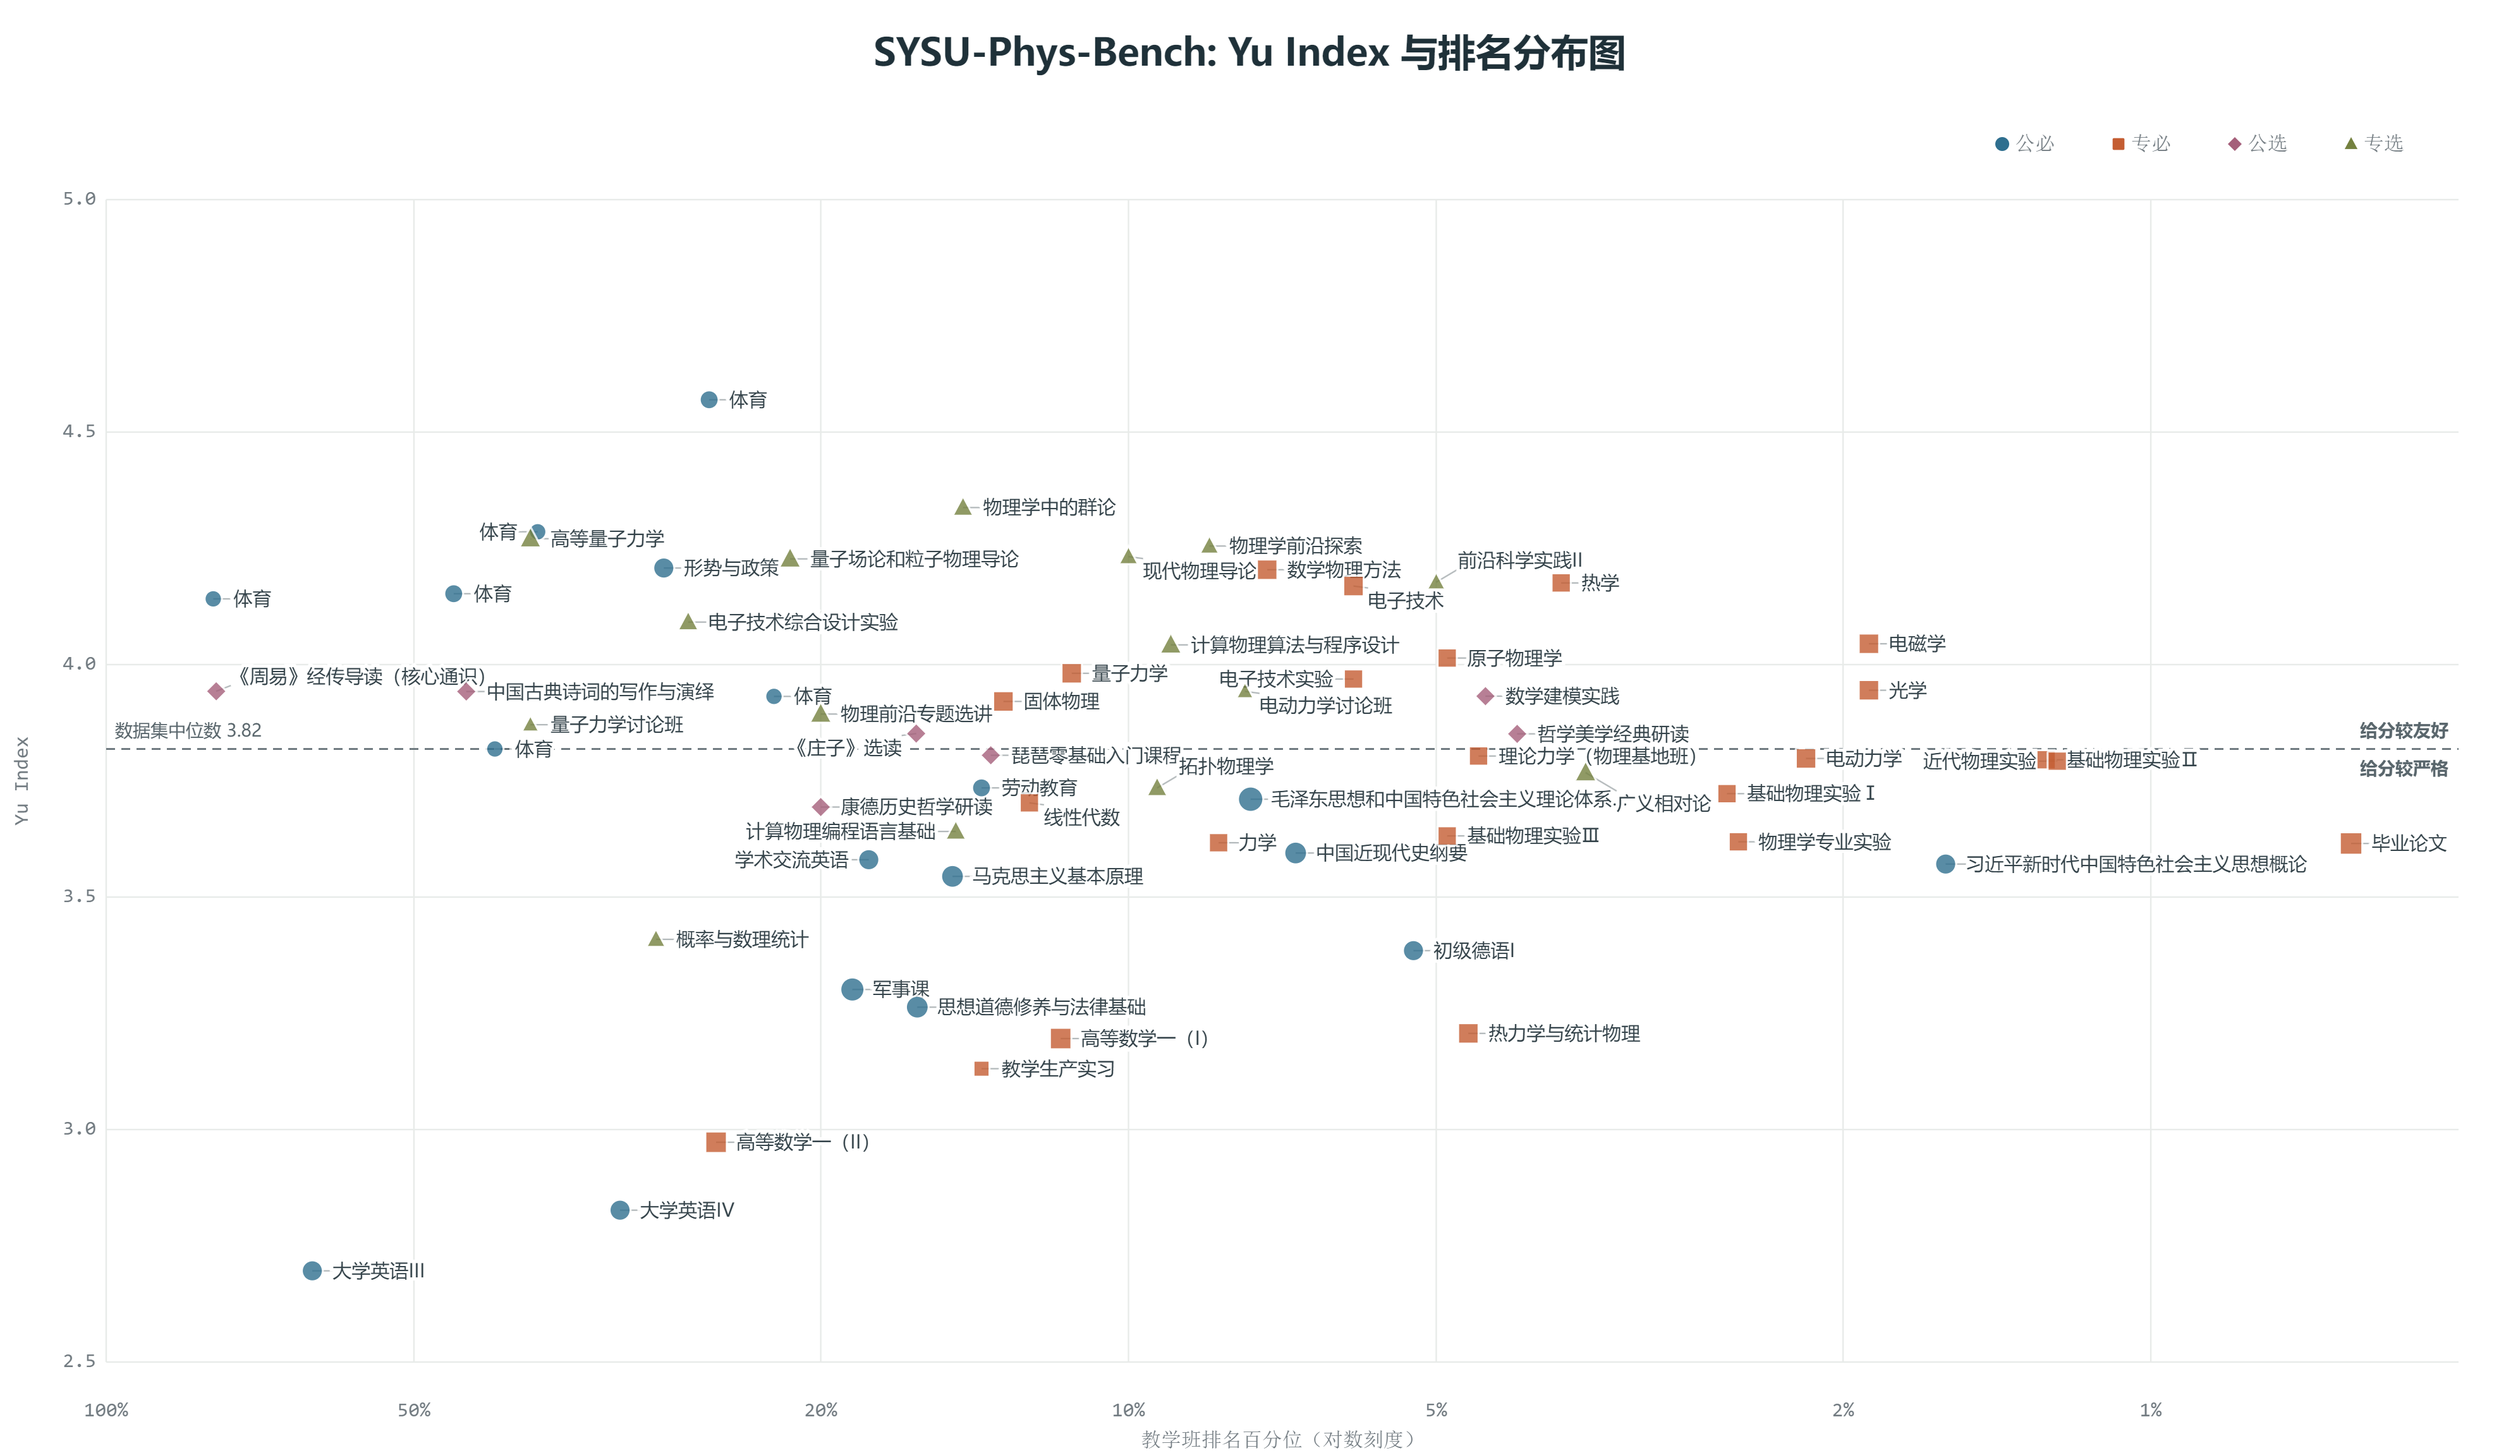
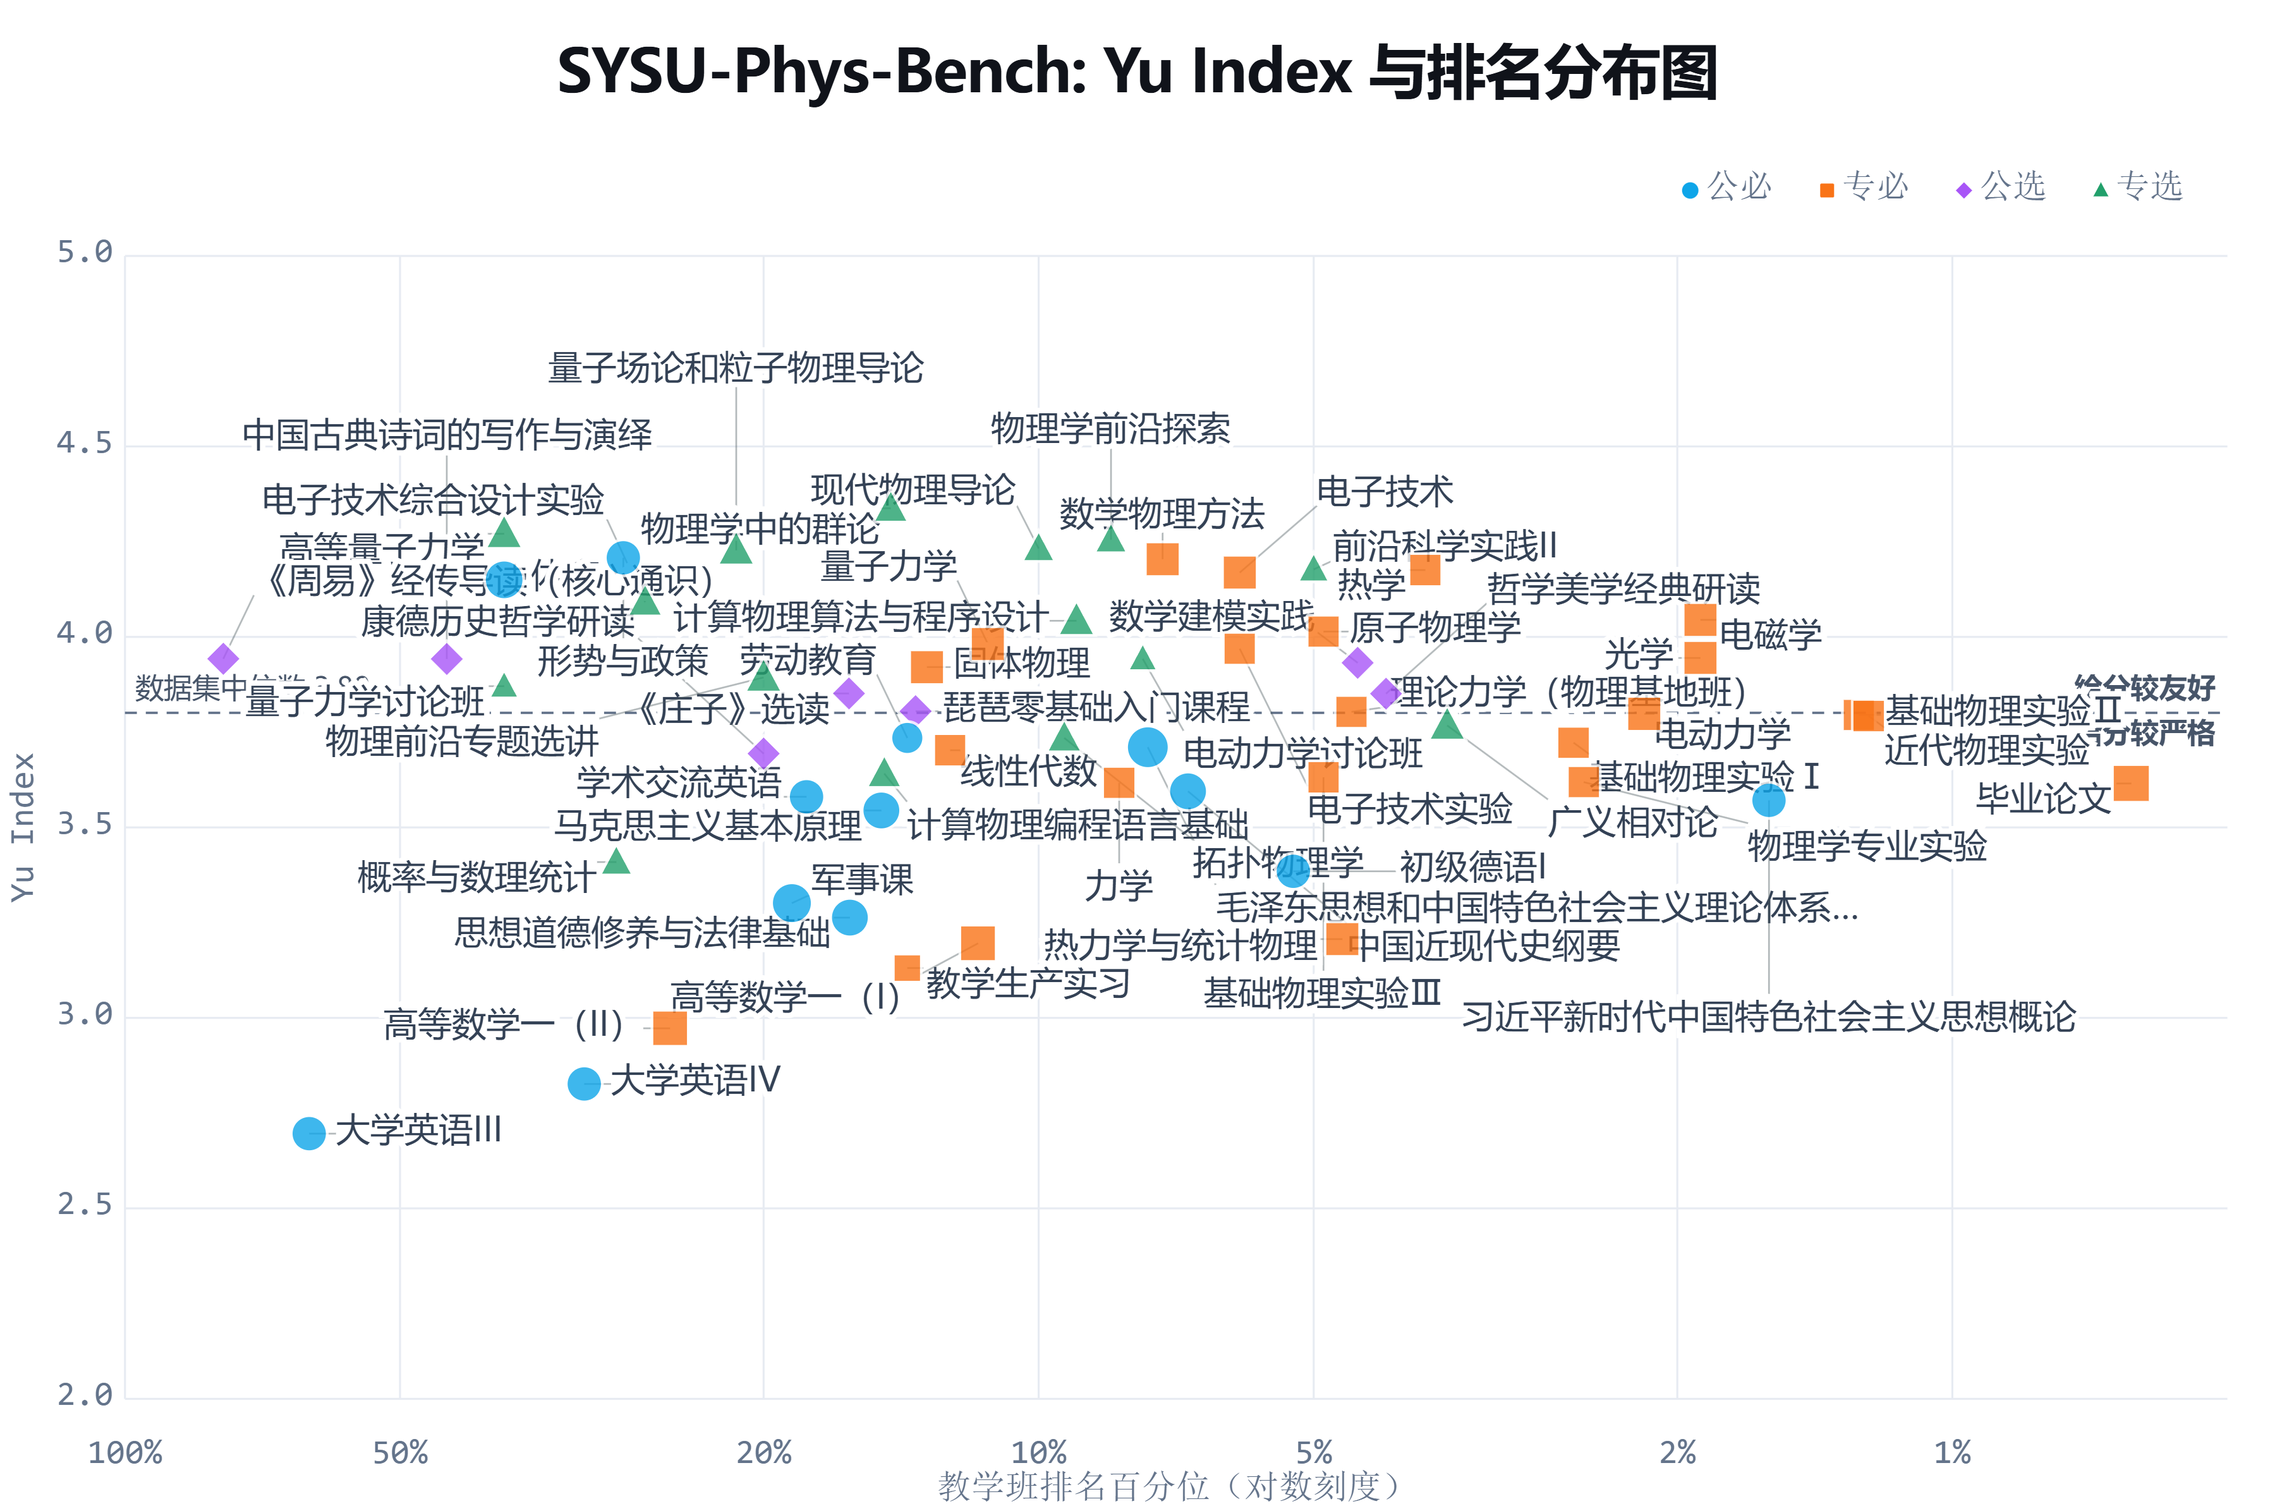
提升 README 结果图可读性

diff --git a/app.js b/app.js
@@ -940,7 +940,7 @@
     return document.fullscreenElement === card || card.classList.contains("is-expanded");
   }
 
-  function appendScatterCourseLabels(svg, data, x, y, valueAccessor, margin, width, height, compact = false) {
+  function appendScatterCourseLabels(svg, data, x, y, valueAccessor, margin, width, height, compact = false, exportReady = false) {
     const bounds = {
       left: margin.left + 3,
       right: width - margin.right - 3,
@@ -954,7 +954,7 @@
       text: truncateText(row.课程, compact ? (width < 520 ? 5 : 9) : 18),
     }));
 
-    const densityRadius = compact ? 42 : 58;
+    const densityRadius = compact ? 42 : exportReady ? 76 : 58;
     labels.forEach((item) => {
       item.density = labels.filter((other) => other !== item && Math.hypot(other.pointX - item.pointX, other.pointY - item.pointY) < densityRadius).length;
     });
@@ -963,14 +963,17 @@
     const placed = [];
     const directions = [
       [1, 0], [-1, 0], [0.72, -0.72], [0.72, 0.72], [-0.72, -0.72], [-0.72, 0.72], [0, -1], [0, 1],
+      [0.92, -0.38], [0.92, 0.38], [-0.92, -0.38], [-0.92, 0.38], [0.38, -0.92], [0.38, 0.92], [-0.38, -0.92], [-0.38, 0.92],
     ];
-    const radii = compact ? [9, 14, 21, 30, 42] : [16, 24, 34, 48, 64, 84, 106];
+    const radii = compact ? [9, 14, 21, 30, 42] : exportReady ? [18, 28, 40, 54, 72, 94, 120, 148] : [16, 24, 34, 48, 64, 84, 106];
     const overlapArea = (a, b) => Math.max(0, Math.min(a.right, b.right) - Math.max(a.left, b.left)) * Math.max(0, Math.min(a.bottom, b.bottom) - Math.max(a.top, b.top));
     const clamp = (value, min, max) => Math.max(min, Math.min(max, value));
 
     labels.forEach((item) => {
-      const textWidth = Array.from(item.text).reduce((sum, character) => sum + (/^[\x20-\x7e]$/.test(character) ? (compact ? 4.6 : 8) : (compact ? 8 : 14)), 4);
-      const textHeight = compact ? 10 : 17;
+      const asciiWidth = compact ? 4.6 : exportReady ? 12.6 : 8;
+      const fullWidth = compact ? 8 : exportReady ? 23 : 14;
+      const textWidth = Array.from(item.text).reduce((sum, character) => sum + (/^[\x20-\x7e]$/.test(character) ? asciiWidth : fullWidth), exportReady ? 7 : 4);
+      const textHeight = compact ? 10 : exportReady ? 25 : 17;
       let bestCandidate = null;
 
       radii.forEach((radius) => {
@@ -1119,7 +1122,7 @@
     });
     svg.append(legend);
 
-    appendScatterCourseLabels(svg, data, x, y, (row) => row.绩点, margin, width, height, compact && !expanded);
+    appendScatterCourseLabels(svg, data, x, y, (row) => row.绩点, margin, width, height, compact && !expanded, expanded);
     data.forEach((row) => {
       const sampleScale = Math.log2((row.样本数 || 1) + 1) * 0.65;
       const marker = scatterSymbol(row.类别, x(row.rankPercentile), y(row.绩点), (3 + Math.sqrt(row.学分) * 1.15 + sampleScale) * (expanded ? 2.3 : 1.4), {
@@ -1227,7 +1230,7 @@
     });
     svg.append(legend);
 
-    appendScatterCourseLabels(svg, data, x, y, (row) => row["Yu Index"], margin, width, height, compact && !expanded);
+    appendScatterCourseLabels(svg, data, x, y, (row) => row["Yu Index"], margin, width, height, compact && !expanded, expanded);
     data.forEach((row) => {
       const sampleScale = Math.log2((row.样本数 || 1) + 1) * 0.65;
       const marker = scatterSymbol(row.类别, x(row.rankPercentile), y(row["Yu Index"]), (3 + Math.sqrt(row.学分) * 1.15 + sampleScale) * (expanded ? 2.3 : 1.4), {
@@ -1280,7 +1283,7 @@
       }
       const clone = source.cloneNode(true);
       const viewBox = source.viewBox.baseVal;
-      const titleHeight = 82;
+      const titleHeight = 96;
       const exportHeight = viewBox.height + titleHeight;
       const exportScale = Math.max(2, Math.min(3, 3600 / viewBox.width));
       clone.setAttribute("width", viewBox.width);
@@ -1294,20 +1297,20 @@
 
       const style = svgElement("style", {}, `
         svg { font-family: "Microsoft YaHei", "Noto Sans CJK SC", sans-serif; }
-        .tick-label { fill: #64748b; font-family: Consolas, monospace; font-size: 18px; }
-        .grid-line { stroke: #e7ebf2; stroke-width: 1.2; }
-        .quadrant-line { stroke: #94a3b8; stroke-dasharray: 5 5; stroke-width: 1.3; }
-        .quadrant-label { fill: #64748b; stroke: #ffffff; stroke-width: 4px; paint-order: stroke; font-size: 14px; letter-spacing: 0.02em; }
-        .yu-benchmark-line { stroke: #64748b; stroke-dasharray: 7 5; stroke-width: 1.4; }
-        .yu-benchmark-label, .yu-benchmark-value { fill: #475569; stroke: #ffffff; stroke-width: 4px; paint-order: stroke; font-size: 14px; }
+        .tick-label { fill: #64748b; font-family: Consolas, monospace; font-size: 23px; }
+        .grid-line { stroke: #e7ebf2; stroke-width: 1.35; }
+        .quadrant-line { stroke: #94a3b8; stroke-dasharray: 6 6; stroke-width: 1.5; }
+        .quadrant-label { fill: #64748b; stroke: #ffffff; stroke-width: 5px; paint-order: stroke; font-size: 19px; letter-spacing: 0.02em; }
+        .yu-benchmark-line { stroke: #64748b; stroke-dasharray: 8 6; stroke-width: 1.6; }
+        .yu-benchmark-label, .yu-benchmark-value { fill: #475569; stroke: #ffffff; stroke-width: 5px; paint-order: stroke; font-size: 19px; }
         .yu-benchmark-label { font-weight: 650; }
         .scatter-label-line { stroke: rgba(75, 87, 93, 0.42); stroke-width: 1.15; }
-        .scatter-course-label { fill: #334155; stroke: #ffffff; stroke-width: 5.5px; paint-order: stroke; font-size: 17px; }
-        .scatter-point { stroke-width: 1.6px; }
-        .export-title { fill: #10131a; font-size: 30px; font-weight: 700; letter-spacing: -0.01em; }
+        .scatter-course-label { fill: #334155; stroke: #ffffff; stroke-width: 7px; paint-order: stroke; font-size: 23px; font-weight: 520; }
+        .scatter-point { stroke-width: 1.9px; }
+        .export-title { fill: #10131a; font-size: 40px; font-weight: 700; letter-spacing: -0.02em; }
       `);
       clone.append(style);
-      clone.append(svgElement("text", { x: viewBox.width / 2, y: 52, "text-anchor": "middle", class: "export-title" }, expandedTitle));
+      clone.append(svgElement("text", { x: viewBox.width / 2, y: 62, "text-anchor": "middle", class: "export-title" }, expandedTitle));
       clone.append(chartGroup);
 
       const svgBlob = new Blob([new XMLSerializer().serializeToString(clone)], { type: "image/svg+xml;charset=utf-8" });

diff --git a/index.html b/index.html
@@ -227,6 +227,6 @@
 
     <script src="data.js"></script>
     <script src="community-data.js?v=20260826-1"></script>
-    <script src="app.js?v=20260826-17"></script>
+    <script src="app.js?v=20260826-18"></script>
   </body>
 </html>
